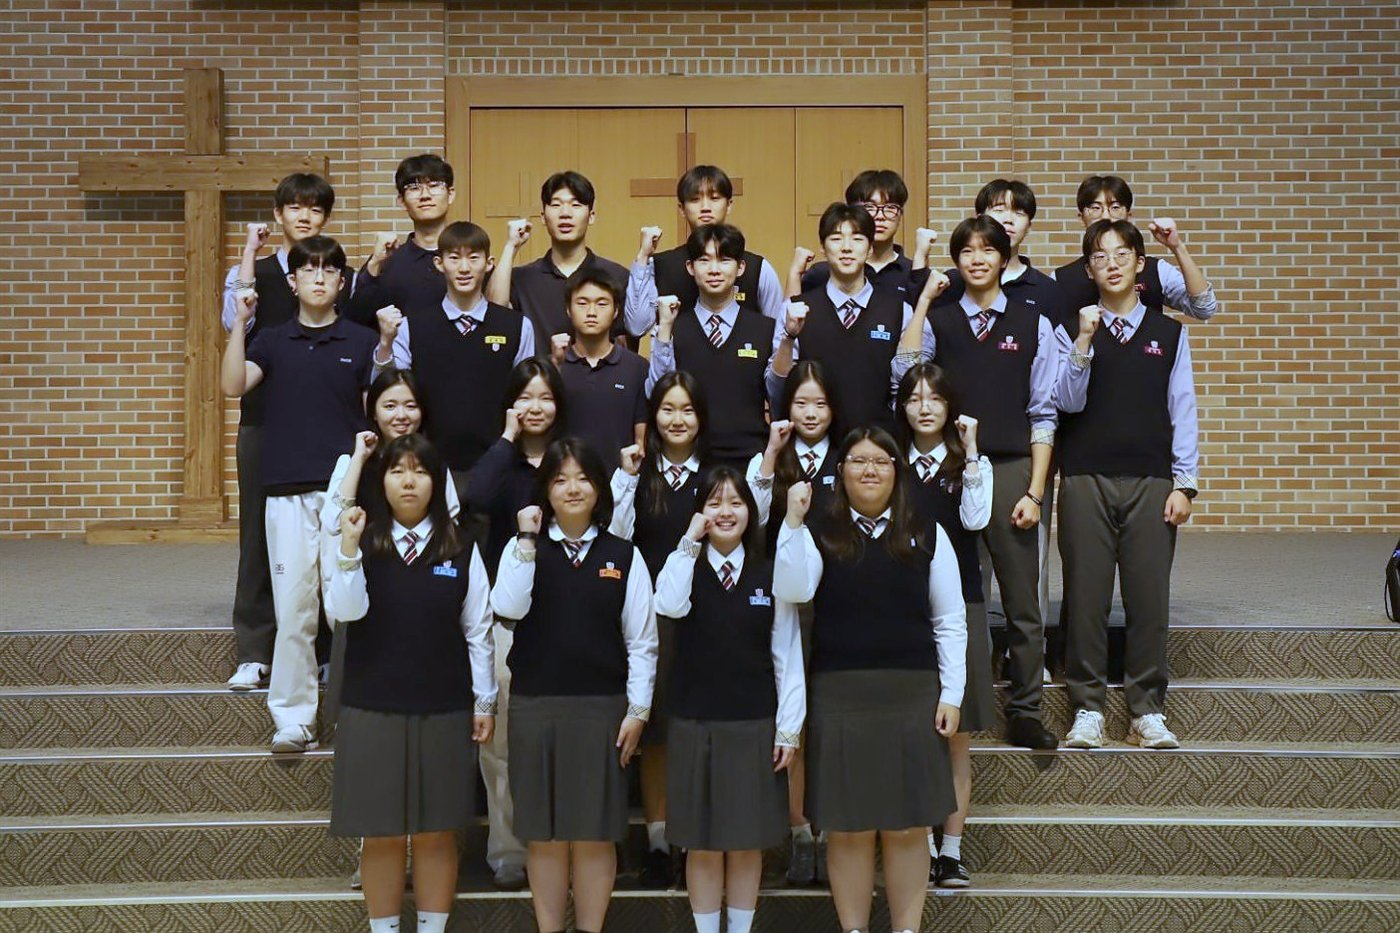
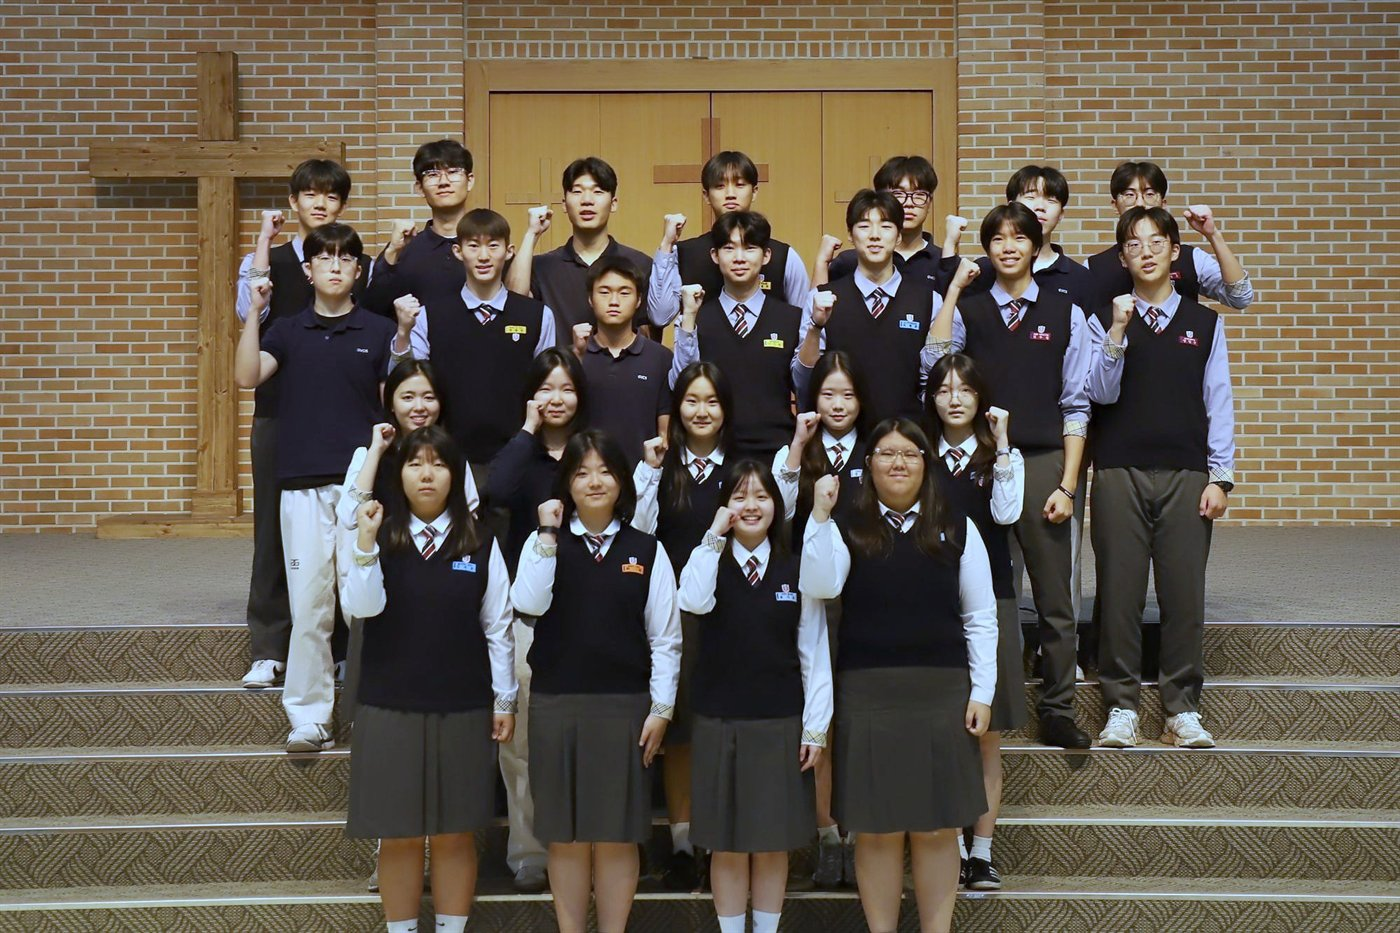
라인업 사진 교체: 무대진행 · 배우 · 밴드 · 온라인 홍보 · 홍보팀 · 중창

diff --git a/pages/crew.html b/pages/crew.html
@@ -66,7 +66,7 @@
       <div class="lu-list">
         <!-- 배우 · 사진 : images/lineup/musical.jpg (바꾸려면 같은 이름으로 덮어쓰기) -->
         <article class="lu-part">
-          <figure class="lu-photo"><img src="../images/lineup/musical.jpg" alt="배우 단체 사진" loading="lazy" width="1400" height="934" /></figure>
+          <figure class="lu-photo"><img src="../images/lineup/musical.jpg" alt="배우 단체 사진" loading="lazy" width="1400" height="933" /></figure>
           <div class="lu-info">
             <h4 class="lu-name"><span data-i18n="pActor">배우</span></h4>
             <ul class="lu-names lu-roles lu-roles-inline"><li>김은혜<small><span data-i18n="ch_seolwoo">설우</span></small></li><li>홍승현<small><span data-i18n="ch_doun">도운</span></small></li><li>임한민<small><span data-i18n="ch_gyuchan">규찬</span></small></li><li>오지효<small><span data-i18n="ch_arin">아린</span></small></li><li>김서연<small><span data-i18n="ch_seoyeon">서연</span></small></li><li>이지안<small><span data-i18n="ch_jian">지안</span></small></li><li>이승주<small><span data-i18n="rYoung">어린 설우</span></small></li><li>김주헌<small><span data-i18n="rFather">설우 아버지</span></small></li><li>권샘물<small><span data-i18n="rMother">설우 어머니</span></small></li><li>박서준<small><span data-i18n="friend">친구</span> 1</small></li><li>임온찬<small><span data-i18n="friend">친구</span> 2</small></li><li>엔군<small><span data-i18n="friend">친구</span> 3</small></li><li>김민하<small><span data-i18n="friend">친구</span> 4</small></li><li>조인택<small><span data-i18n="student">학생</span> 1</small></li><li>강지우<small><span data-i18n="student">학생</span> 2</small></li><li>엄세영<small><span data-i18n="rTkd">태권도부장</span></small></li></ul>
@@ -74,7 +74,7 @@
         </article>
         <!-- 밴드 · 사진 : images/lineup/band.jpg (바꾸려면 같은 이름으로 덮어쓰기) -->
         <article class="lu-part">
-          <figure class="lu-photo"><img src="../images/lineup/band.jpg" alt="밴드 단체 사진" loading="lazy" width="1400" height="787" /></figure>
+          <figure class="lu-photo"><img src="../images/lineup/band.jpg" alt="밴드 단체 사진" loading="lazy" width="1400" height="934" /></figure>
           <div class="lu-info">
             <h4 class="lu-name"><span data-i18n="pBand">밴드</span></h4>
             <ul class="lu-names lu-roles"><li>강예빈<small>Main Keys</small></li><li>정예렘<small>Second Keys</small></li><li>이한비<small>Lead Guitar</small></li><li>이원희<small>Rhythm Guitar</small></li><li>조승운<small>Bass Guitar</small></li><li>Kohen<small>Drums</small></li></ul>
@@ -164,7 +164,7 @@
         </article>
         <!-- 무대진행 · 사진 : images/lineup/stage-crew.jpg (바꾸려면 같은 이름으로 덮어쓰기) -->
         <article class="lu-part">
-          <figure class="lu-photo"><img src="../images/lineup/stage-crew.jpg" alt="무대진행 단체 사진" loading="lazy" width="1400" height="932" /></figure>
+          <figure class="lu-photo"><img src="../images/lineup/stage-crew.jpg" alt="무대진행 단체 사진" loading="lazy" width="1400" height="934" /></figure>
           <div class="lu-info">
             <h4 class="lu-name"><span data-i18n="pCrew">무대진행</span></h4>
             <ul class="lu-names"><li>김가현</li><li>박하은</li><li>백서진</li><li>변정후</li><li>송시연</li><li>이서현</li><li>이수린</li><li>이하현</li><li>임우징</li><li>최종민</li></ul>
